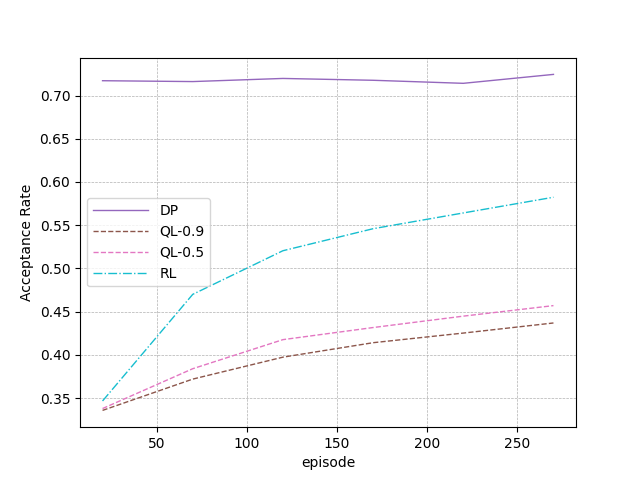
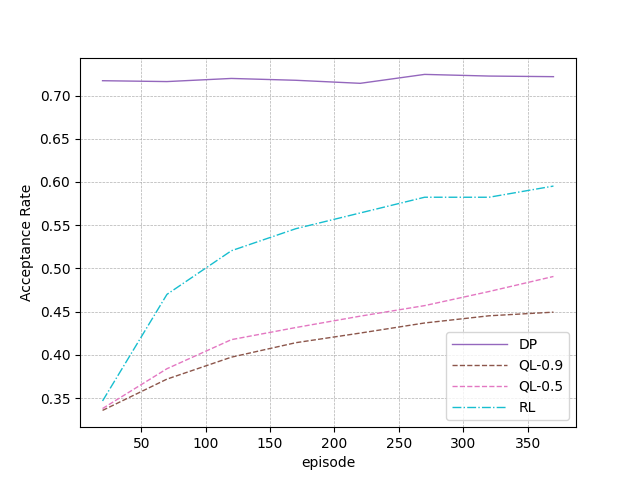
rejection + overcharge: 3 classes episode resutls

diff --git a/Single-Provider-Federation/reject-overcharge-multi_resource/QL.py b/Single-Provider-Federation/reject-overcharge-multi_resource/QL.py
@@ -70,15 +70,16 @@ def qLearning(env, num_episodes, dynamic, alpha,  epsilon, gamma):
     seen_states = set()
 
     discount_factor = 0.0
-    decay = 0.0005
+    decay = 0.025
 
     # For every episode
     for ith_episode in range(num_episodes):
 
         if(dynamic == 1):
-            alpha = alpha * 0.97
-            epsilon = epsilon * 0.97
-        
+            #alpha = alpha * 0.97
+            #epsilon = epsilon * 0.97
+            alpha = alpha0 / (1.0 + ith_episode * decay)
+            epsilon = epsilon0 / (1.0 + ith_episode * decay)
         if verbose:
             debug("alpha = ", alpha, "epsilon = ", epsilon, "gamma = ", gamma)
         

diff --git a/Single-Provider-Federation/reject-overcharge-multi_resource/simulations/check-episode-3class/sim.py b/Single-Provider-Federation/reject-overcharge-multi_resource/simulations/check-episode-3class/sim.py
@@ -18,7 +18,7 @@ from tester import test_greedy_random_policy, test_policy, greedy_result, mdp_po
 
 if __name__ == "__main__":
 
-    sim_num = 2000
+    sim_num = 3000
 
     best_QL_alpha   = 0.75
     best_QL_epsilon = 0.75
@@ -31,8 +31,8 @@ if __name__ == "__main__":
     parser.parse_config("config.json")
 
     
-    init_size = 20
-    step = 100
+    init_size = 50
+    step = 200
     scale = 10
 
     iterations = 10

diff --git a/Single-Provider-Federation/reject-overcharge-multi_resource/RL.py b/Single-Provider-Federation/reject-overcharge-multi_resource/RL.py
@@ -70,7 +70,7 @@ def rLearning(env, num_episodes, dynamic, alpha0, epsilon0, beta0):
     seen_states = set()
 
     rho = 1.0
-    decay = 0.05
+    decay = 0.025
 
     # For every episode
     for ith_episode in range(num_episodes):
